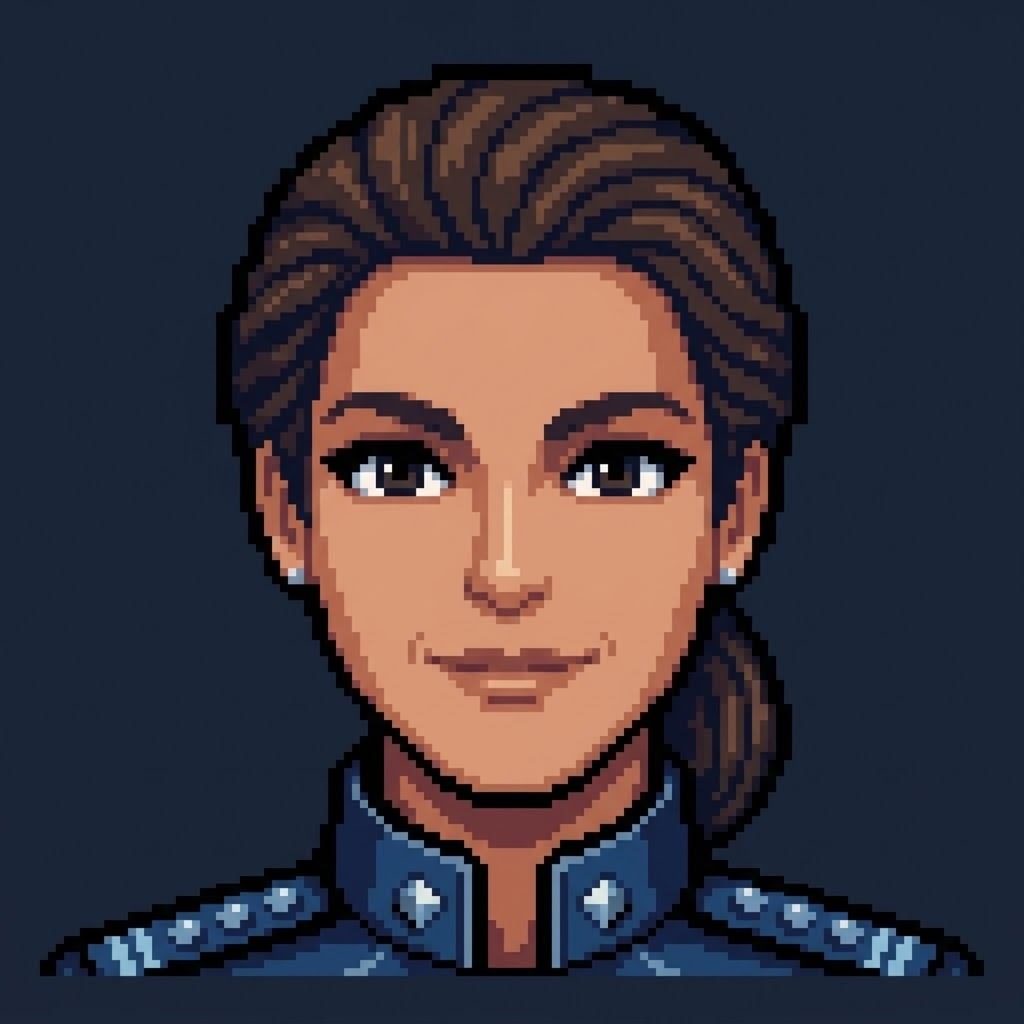
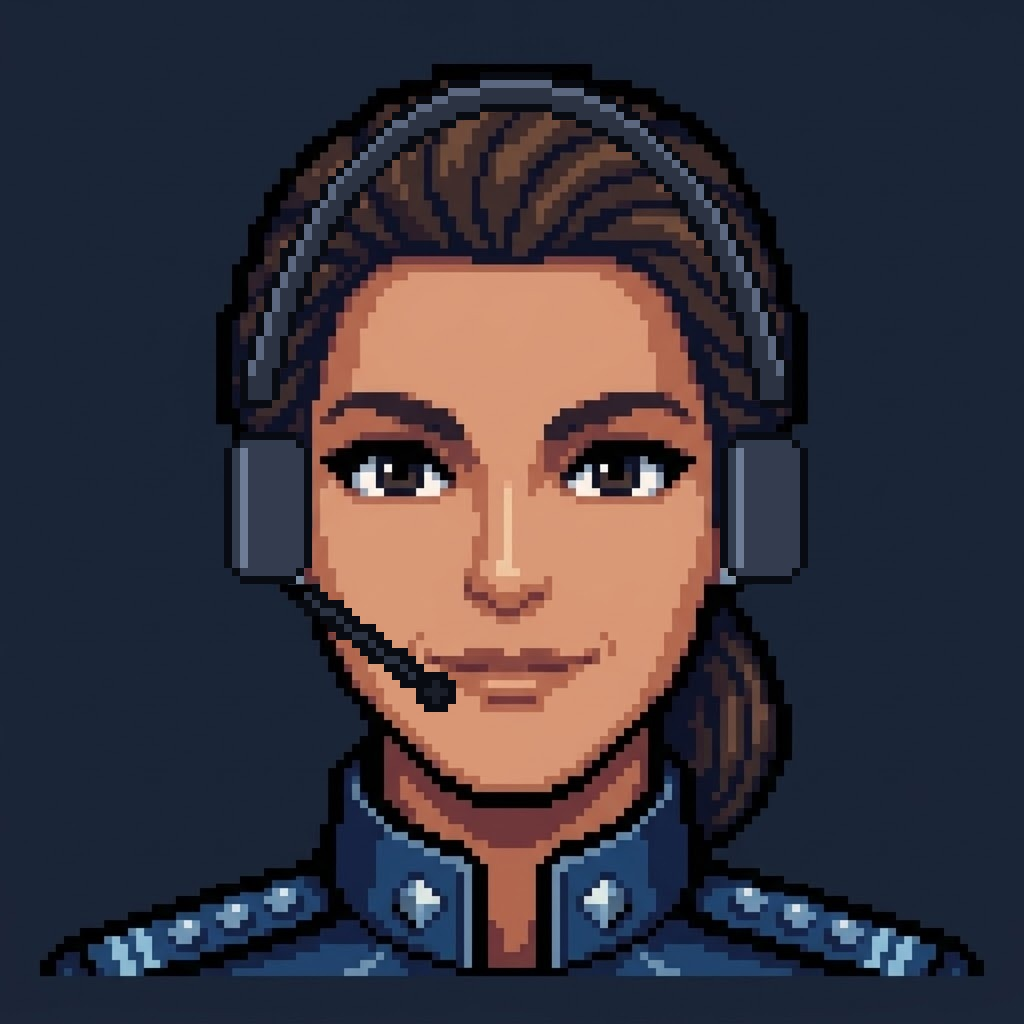
Nicole's headset in her portrait and dialogue picture
Claude-Session: https://claude.ai/code/session_01QsU1qWh9Lm4CoQ2smq7FHb

Changed region(s): [[0.2188, 0.0625, 0.8125, 0.7188]]

diff --git a/tools/nicole_headset.py b/tools/nicole_headset.py
@@ -1,0 +1,48 @@
+#!/usr/bin/env python3
+"""Nicole's headset (owner, 2026-11-27: she wears one on the bridge, so her communicator pictures should too).
+Draws a pixel-art headset (headband, ear cups, mic boom) onto the originals kept in art_src/crew/communications_*_v1.jpg, on each picture's
+own pixel grid, and writes the game's files: communications_original.jpg (face), communications_scene_original.jpg, and the Retro copies.
+   python3 tools/nicole_headset.py"""
+import os, sys
+from PIL import Image, ImageDraw
+ROOT = os.path.dirname(os.path.dirname(os.path.abspath(__file__)))
+sys.path.insert(0, os.path.join(ROOT, 'tools')); from crew_art import snap
+SRC, OUT = os.path.join(ROOT, 'art_src', 'crew'), os.path.join(ROOT, 'tablet', 'retro', 'assets', 'crew')
+INK, BAND, BAND_HI, CUP, CUP_HI, PAD = (8, 11, 17, 255), (44, 52, 68, 255), (92, 104, 128, 255), (52, 61, 80, 255), (110, 124, 150, 255), (26, 30, 40, 255)
+
+def headset(size, cell, band, cups, mic):
+    """Draw on a small canvas (one square per art pixel), then blow it up in hard pixels. band: ellipse box and angle range of the arc;
+    cups: [(cx, cy, w, h)]; mic: (from, to). Coordinates are in the picture's pixels."""
+    W, H = size; w, h = W // cell, H // cell
+    im = Image.new('RGBA', (w, h), (0, 0, 0, 0)); d = ImageDraw.Draw(im)
+    s = lambda v: [round(x / cell) for x in v]
+    (bx0, by0, bx1, by1), a0, a1, th = band
+    box = s((bx0, by0, bx1, by1))
+    d.arc(box, a0, a1, fill=INK, width=th + 2)
+    d.arc([box[0] + 1, box[1] + 1, box[2] - 1, box[3] - 1], a0 + 1, a1 - 1, fill=BAND, width=th)
+    d.arc([box[0] + 1, box[1] + 1, box[2] - 1, box[3] - 1], a0 + 4, a1 - 4, fill=BAND_HI, width=1)
+    if mic:
+        (x0, y0), (x1, y1) = mic; p0, p1 = s((x0, y0)), s((x1, y1))
+        d.line([*p0, *p1], fill=INK, width=3); d.line([*p0, *p1], fill=BAND, width=1)
+        d.ellipse([p1[0] - 2, p1[1] - 2, p1[0] + 2, p1[1] + 2], fill=INK); d.ellipse([p1[0] - 1, p1[1] - 1, p1[0] + 1, p1[1] + 1], fill=PAD)
+    for (cx, cy, cw, ch) in cups:
+        x0, y0, x1, y1 = s((cx - cw / 2, cy - ch / 2, cx + cw / 2, cy + ch / 2))
+        d.rounded_rectangle([x0, y0, x1, y1], radius=max(1, (x1 - x0) // 3), fill=INK)
+        d.rounded_rectangle([x0 + 1, y0 + 1, x1 - 1, y1 - 1], radius=max(1, (x1 - x0) // 3 - 1), fill=CUP)
+        d.line([x0 + 2, y0 + 2, x0 + 2, y1 - 2], fill=CUP_HI)
+    return im.resize((w * cell, h * cell), Image.NEAREST)
+
+def apply(src, dst, cell, band, cups, mic):
+    base = Image.open(os.path.join(SRC, src)).convert('RGBA')
+    ov = headset(base.size, cell, band, cups, mic); base.alpha_composite(ov, (0, 0))
+    out = base.convert('RGB'); out.save(os.path.join(OUT, dst), quality=92); return out
+
+# the face (1024 x 1024, art pixels about 16 px): band over the crown, cups on both ears, the mic from her right cup toward her mouth
+face = apply('communications_face_v1.jpg', 'communications_original.jpg', 8,
+             ((228, 70, 796, 980), 196, 344, 3), [(262, 505, 84, 150), (762, 505, 84, 150)], ((300, 590), (430, 690)))
+snap(face.resize((64, 64), Image.LANCZOS)).save(os.path.join(OUT, 'communications.png'))
+# the dialogue picture (1024 x 765, art pixels about 4 px): three-quarter view, the cup on her near ear (viewer right), the band over her hair
+scene = apply('communications_scene_v1.jpg', 'communications_scene_original.jpg', 4,
+              ((206, 78, 430, 560), 222, 352, 3), [(410, 275, 40, 66)], ((404, 306), (318, 336)))   # the far ear is hidden behind her head: no far cup
+snap(scene.resize((320, 240), Image.LANCZOS)).save(os.path.join(OUT, 'communications_scene.png'))
+print('Nicole has her headset')

diff --git a/docs/HANDOFF.md b/docs/HANDOFF.md
@@ -1,6 +1,6 @@
 # Handoff (read this first when a session starts; update it before parking)
 
-Last updated: 2026-11-27. Branch to work on: `tablet`. Repo: NickWest27/AquaNova (GitHub Pages path `/AquaNova/`). Last change: ARIA's picture rebuilt smooth with no screen-door grid (averaged on its 190x143 art grid, dark texture calmed, enlarged smoothly, sharpened, soft glow; original kept as `art_src/crew/executiveOfficer_scene_v1.png`); held lines that already say Captain get no extra "Captain," in front; nav charts: the coast is a bold dark yellow (land), the 10 and 20 m contours light yellow (shallows, where charted). Before that sonar modes (owner, 2026-11-27). OFF (about 1 nm, contacts lost), PASSIVE (listening, the normal setting), ACTIVE: pings every 20 s; each ping is a ripple drawn on the SNR screen and the nav charts, spreading at 1.5 nm a second; once the first ripple has passed a vessel it is heard twice as far (traffic.js). Everyone hears a ping: poachers inside 24 nm run (`spooked`), other hostiles inside 36 nm come for us (`drawn`); Alex says so when he can see it. Active draws a little more power. The Active button is on the SNR page (centre pad, five buttons); Alex's Sonar orders are Go passive, Go active, Sonar off. The full sweep is now a mapping sweep with the survey sensors: +30 power while it runs, the chart filled in to 12 nm, it no longer helps hearing. Normal mapping is 4 nm whatever the sonar does (sim.fineNm). bubble_nm 20 to 28 (data/world/traffic.json). Tests: sonar_test (active, ripple reach, pings, sweep power and chart, poacher runs, hostile closes), seafloor_test. Before that docking and undocking say one message each (dock.js `sequence(text, sounds, done)`; the clamp and shore power sounds still play at their steps); Alex reports a hostile contact when first heard (as before) and again once it is identified, if it was unidentified at first (traffic.js `identSaid`). dock_sleep_test fixed (reads Marcus's held message). notices_test is out of date (written for the old overhead stack, `.bt-stack`), needs rewriting. Before that bridge overhead panel: battery dropped from the status line; notices queue (one at a time, each held 5 to 12 s by length, repeats dropped, at most 6 waiting; `readMs` in bridge.js). Before that ARIA no longer announces a new mission (no 'New task' and no 'New Mission Started'); she congratulates the Captain 5 s after a mission completes, mentioning the report when one went out in the last 15 s (app.js, mission-notify). She only speaks: the report transfer and OERA's reply mail keep their own timing. Before that no status strip and no line at the foot of the screen (owner, 2026-11-27). The status strip (`.dock`) is hidden everywhere (the bridge's overhead panel carries position, time and battery). A crew line that does not open the dialogue (a reply to a button, an action report) goes to that crew member's communicator log and the pin pulses (`pin-pulse` event); on the bridge it is still a notice on the overhead console; a line from the crew member you are talking to just appears in the dialogue (behind Continue). `toast()` confirmations from PED and logbook buttons (Note saved, Copied, Export failed) still use the foot line. Tests updated: aria_test, unlock_test, dock_sleep_test read the communicator log. Before that who reports the launch bay (owner, 2026-11-27): Lt. Washington (`security`) reports the Tern's launches and recoveries (away, alongside, aboard, readying, taking aboard, the Fetch Remora order and the Tern bringing Remora home) and a parted Remora tether; Dr. Patel (`science`) Remora's launches and recoveries; Alex (`sensors`) everything WSKR (the tether-blocks-the-doors line moved from Chief Doyle). The Tern's mission lines (ashore, low battery, adrift) stay with Marcus; her radio calls with Nicole. Before that sounds limited to their rooms (owner, 2026-11-27; `HEARD_IN` and `play()` in app.js): sonar new/lost contact, depth warning and the teletype only on the bridge; launch bay hatches, flooding, pumping, launches only in the launch bay (the bay loop keeps running silently, so walking in you hear it); the engine room loop only in engineering; the hull (impacts, crash, groans, diving, docking clamps), alarms, the drive, sonar pings, doors and the communicator everywhere. Before that new walkway pictures (owner, 2026-11-27; old ones kept as `art_src/rooms/walkway*_original_v1.jpg`). A1: straight corridor, BRIDGE at the end, Science near left, Medical far left, Quarters near right (signs on the black panels; the far right door unused). AN-1: Launch Bay is the left end door, Engineering the near right door (the right end door, near left door and ladder unused). Pre-existing failures noticed: `science_test`, `bridge_test` (fail the same without this change). Before that docking sounds (owner, 2026-11-27: metallic thuds): `dockBump`, `dockClamps`, `clampRelease`, `shorePower`, played on the steps of the dock sequence (dock.js); room doors open, then shut behind (walkway to walkway has no door). Before that launch bay cycle sounds (owner, 2026-11-27: hatches are quick, equalising takes time): `BAY_PLAN` in app.js plays cues at fractions of the bay op (game time). Launch: inner hatch open, close, flood loop (most of the 60 s), outer hatch open, the craft goes, outer hatch closes. Recovery: outer hatch open, close, pump-out loop, inner hatch open, close. Full volume in the launch bay, 30% elsewhere. New sounds `hatchOpen`, `hatchClose`, loops `bayFlood`, `bayPump`. Impact, crash and distant explosion get soft saturation (`DRIVE` in sfx.js) so they read on iPad speakers. Test `tools/bay_sound_test.py` (uses `window.__sfxLog` in audio.js). Before that sounds (owner, 2026-11-27): the interface sounds (communicator chirp, mail open/close, notice, action tick, data up/down/done/fail) moved from audio.js into sfx.js, so the sound board has them (audio.js plays them through its sliders); general quarters gong removed; crash, hull groan, power up and power down remade; impact and distant explosion heavier; the fan loop is now `hullFlow`, water past the hull, played by audio.js on the Ship slider and louder with speed; `shipHum` and `ventilation` loops on the board. Newly wired in app.js: power down (super cruise off), depth warning (depth cap), sonar new contact / contact lost (events from sonar.js, at most one blip per 4 s), launch bay flooding (launch) and draining (recovery), WSKR launch whoosh, bubbles when the Tern or Remora leaves, bubbles diving and a splash surfacing, hull groans below 400 m every few minutes, teletype for an incoming message; impact/crash only on a real hit (not the map edge or AO warning). Not wired yet: distant explosion, radio beep, button press/error, radio static, reactor hum. Before that Alex's dialogue picture and face (`sensors`); Marcus and Alex: their consoles are matched to the bridge colours, the plain backdrop stays dark and blank for the text (`PLAIN` in `tools/crew_art.py`; a blurred bridge backdrop was tried and dropped by the owner: wrong sense of where they sit). Before that crew scene backgrounds shifted toward their room's colours (bridge, engineering, launch bay; figure kept as drawn; masks `art_src/crew/<id>_mask.png`, `ROOM` and `BG_STRENGTH` in `tools/crew_art.py`). Before that new crew scene pictures (Marcus over the shoulder, replacing the first one, kept as `art_src/crew/helm_scene_v1.png`; Chief Doyle; Lt. Washington), made by `tools/crew_art.py`; text box per picture in `SCENE_BOX` (Marcus right but short of his hand, Washington left, Doyle across the bottom with the choices in two columns). Before that desk pads are banks of five (range buttons gone, the yellow keys do range; SNR contact buttons Scan, Probe, Clear moved to the right pad, Investigate renamed Probe; the Sensors station keeps its own − RANGE +). Open: the left pad still has six pages (TAC is a stub). Before that bridge desk (owner, 2026-11-27): the three desk pads are warped to the slant of their holes; DSP moved from the right pad to the round trackpad (lamp lit while on); the two yellow keys left of the centre display are RANGE + / − with the signs printed on; the overhead panel carries the status (position, date, time, BAT) and the screen-edge strip is hidden on the bridge; before that sound board in the PED (Settings > Sound > Sound board opens it full screen over the game; the buttons live in `tablet/js/soundboardKit.js`, shared with the stand-alone page `tablet/soundboard.html`, published at `.../AquaNova/tablet/tablet/soundboard.html`: note the double `tablet`); before that sound board for the owner (every sound in sfx.js and the theme on a button, rename and Copy names); before that NEW BRIDGE FRAME (the owner's picture of 2026-11-27, 1024x765, holes cut from its painted checkerboard; source `art_src/rooms/bridge_original.png`, colour-matched by `tools/even_palette.py`, Retro copy snapped from it). Marcus at the centre helm (tap him to talk; his left monitor opens the Helm station; his two small monitors show heading/speed and depth/floor), Nicole left, Alex right. The three desk pads are one row each: HLM's depth and cruise buttons moved to the right pad. The status strip moves to the top on the bridge (`body.on-bridge`). Walkway exit: bottom-left corner. Before that: 16-bit sound effects library (`tablet/js/sfx.js`, 32 sounds; previews `docs/audio/sfx/`, reel `docs/audio/sfx_reel.mp3` + `.txt`, rendered by `tools/render_sfx.py`; Effects slider in PED Settings). Wired: general alarm, impact/crash, fire and flooding alarms, super cruise power-up and engage, emergency blow, sonar sweep ping, doors between rooms, the engine room loop, radio squelch when the communicator opens; before that short crew lines show as notices on the bridge's overhead console (two lines, whole panel); ARIA's hints wait at least a minute; bigger overhead and nav log text; the vertical profile uses the nav screen's colours (warning yellow and red kept); before that every crew message opens the dialogue (hints, reports, objective lines); only the reply to a button press (`tell()`) and action ticks stay a short line at the foot of the screen (notify.js); before that main title "Beneath the Waves" (original, 16-bit style, `tablet/js/theme.js`; PED Settings > Play theme; render with `tools/render_theme.py` to `docs/audio/aqua_nova_theme.mp3`); before that the communicator never replaces what the Captain is reading: new lines wait behind "Continue" (crew.js readTo); before that fixed Restart from the beginning (a new game was no longer recognised because 'pick up the communicator' now starts as waiting; `commsLocked` in app.js; test `tools/restart_test.py`); before that no discovery notes in the logbook (arrivals to the PED Journal, records to PED Findings); before that one task at a time (objective status 'waiting' until the step before is done; follow-on missions start after a short saved pause; the PED shows done steps, the current one and how many are to come); super cruise spools up for 8 s and eases in and out, any other power setting drops it; Route editor Edit button and a degrees-and-minutes read-back in the waypoint dialog; the trials escort (OERA Seaward, CGC Vigilant) on AIS; the 300 m depth is a certification step (story bible); before that route planner fix (trips over about 120 nm fell off the search grid and were reported as blocked: `route.js` now grows its cells on long trips; test in `tools/route_test.mjs`); the commissioning orders give the AO's centre point, not its corners; before that walkway A1, walkway AN-1 and medbay back to the colour-matched pictures (a pixel-art rebuild by filter looked smudged; they need redrawing to be as crisp as the launch bay); stray speckles removed from the Retro copies; BRIDGE sign on A1 drawn by the game; before that rooms open with the story and crew join the communicator when their room is visited (`rooms.js`, see `docs/COMMS_AND_PROGRESSION.md`); ARIA's bridge introduction; before that crew renamed (Lt. Andre Washington for security, Chief Engineer Ryan Doyle; see `docs/STORY_BIBLE.md`); the Captain's lines in the communicator are conversational (`SAY` in `stations/crew.js`); Call another station; Take me to my quarters removed; before that communicator menu tidied and First Contact completes on ARIA's introduction (see `docs/HELM_AND_ORDERS.md`); before that portraits and dialogue screens for Marcus, ARIA and Dr. Patel (`tools/crew_art.py`, sources in `art_src/crew/`; text box side per picture: `SCENE_BOX` in art.js); before that room pictures evened out to the Engineering picture's brightness and colour (`tools/even_palette.py`; the untouched originals are in `art_src/rooms/`, outside the served folders: a new room picture goes there first, then run the script, which also remakes the Retro copies); bigger crew tap areas on the bridge; before that the owner's testing list (below, all 18 items); before that the quarters wall screen cycles NAV, synthetic vision, sonar, WSKRs and ship status (`quartersScreen.js`, tap = next page, 10 s each; test `tools/quarters_screen_test.py`); pushing the trials for records with a risk of light damage (`trials.js`); story bible brought up to date; before that Sea Trials became the commissioning trip to the Trials AO (welcome letter in the logbook, commissioning orders by mail, Welcome to the AO mail; nav, eng and super cruise commissioned in steps; see the tutorial table in `docs/COMMS_AND_PROGRESSION.md`); before that the owner's welcome letter in the logbook; before that general alarm (ARIA order + engineering button; red lighting and frames; faster fire/flood response if sounded first; see `docs/ENGINEERING.md`); before that the Engineering room shows the ship's state (core glow amber/red, live console screens, red alarm for fire/flooding; see `docs/ENGINEERING.md`); before that the engineering computer; before that the 90s dialogue screen for Nicole; before that Nicole's portrait; before that walkway AN-1 and Engineering on the owner's pictures (every room is now 4:3); before that site survey (`survey.js`, Survey site on SONAR, Seabed survey missions) and the XO tends Remora before getting under way; before that Remora's tether parts past its length, the Tern fetches her (`tools/tether_test.py`); before that PED, communicator and corner buttons in the 4:3 box; before that Launch Bay as instruments, WSKRs have their own launch bays, standard target readout (`readout.js`), Full sweep 36 s; before that station pages are a 4:3 page (1024 x 768) scaled like the stage; before that pages fit the screen (`tools/fit_test.py`) and Sensors has SONAR and WSKRs only; before that contact tracking (detection chance, names belong to tracks, probable matches, signatures on file: `docs/CONTACT_TRACKING.md`); before that identified ships saved; before that one zoom direction everywhere ("+" zooms in) and round map zoom buttons; before that the bridge original picture with real transparent holes; before that the medbay on the owner's picture (after bridge, walkway A1, quarters, science lab, launch bay).
+Last updated: 2026-11-27. Branch to work on: `tablet`. Repo: NickWest27/AquaNova (GitHub Pages path `/AquaNova/`). Last change: Nicole wears her headset in her communicator pictures too (`tools/nicole_headset.py` draws it on the originals kept as `art_src/crew/communications_*_v1.jpg`). Before that ARIA's picture rebuilt smooth with no screen-door grid (averaged on its 190x143 art grid, dark texture calmed, enlarged smoothly, sharpened, soft glow; original kept as `art_src/crew/executiveOfficer_scene_v1.png`); held lines that already say Captain get no extra "Captain," in front; nav charts: the coast is a bold dark yellow (land), the 10 and 20 m contours light yellow (shallows, where charted). Before that sonar modes (owner, 2026-11-27). OFF (about 1 nm, contacts lost), PASSIVE (listening, the normal setting), ACTIVE: pings every 20 s; each ping is a ripple drawn on the SNR screen and the nav charts, spreading at 1.5 nm a second; once the first ripple has passed a vessel it is heard twice as far (traffic.js). Everyone hears a ping: poachers inside 24 nm run (`spooked`), other hostiles inside 36 nm come for us (`drawn`); Alex says so when he can see it. Active draws a little more power. The Active button is on the SNR page (centre pad, five buttons); Alex's Sonar orders are Go passive, Go active, Sonar off. The full sweep is now a mapping sweep with the survey sensors: +30 power while it runs, the chart filled in to 12 nm, it no longer helps hearing. Normal mapping is 4 nm whatever the sonar does (sim.fineNm). bubble_nm 20 to 28 (data/world/traffic.json). Tests: sonar_test (active, ripple reach, pings, sweep power and chart, poacher runs, hostile closes), seafloor_test. Before that docking and undocking say one message each (dock.js `sequence(text, sounds, done)`; the clamp and shore power sounds still play at their steps); Alex reports a hostile contact when first heard (as before) and again once it is identified, if it was unidentified at first (traffic.js `identSaid`). dock_sleep_test fixed (reads Marcus's held message). notices_test is out of date (written for the old overhead stack, `.bt-stack`), needs rewriting. Before that bridge overhead panel: battery dropped from the status line; notices queue (one at a time, each held 5 to 12 s by length, repeats dropped, at most 6 waiting; `readMs` in bridge.js). Before that ARIA no longer announces a new mission (no 'New task' and no 'New Mission Started'); she congratulates the Captain 5 s after a mission completes, mentioning the report when one went out in the last 15 s (app.js, mission-notify). She only speaks: the report transfer and OERA's reply mail keep their own timing. Before that no status strip and no line at the foot of the screen (owner, 2026-11-27). The status strip (`.dock`) is hidden everywhere (the bridge's overhead panel carries position, time and battery). A crew line that does not open the dialogue (a reply to a button, an action report) goes to that crew member's communicator log and the pin pulses (`pin-pulse` event); on the bridge it is still a notice on the overhead console; a line from the crew member you are talking to just appears in the dialogue (behind Continue). `toast()` confirmations from PED and logbook buttons (Note saved, Copied, Export failed) still use the foot line. Tests updated: aria_test, unlock_test, dock_sleep_test read the communicator log. Before that who reports the launch bay (owner, 2026-11-27): Lt. Washington (`security`) reports the Tern's launches and recoveries (away, alongside, aboard, readying, taking aboard, the Fetch Remora order and the Tern bringing Remora home) and a parted Remora tether; Dr. Patel (`science`) Remora's launches and recoveries; Alex (`sensors`) everything WSKR (the tether-blocks-the-doors line moved from Chief Doyle). The Tern's mission lines (ashore, low battery, adrift) stay with Marcus; her radio calls with Nicole. Before that sounds limited to their rooms (owner, 2026-11-27; `HEARD_IN` and `play()` in app.js): sonar new/lost contact, depth warning and the teletype only on the bridge; launch bay hatches, flooding, pumping, launches only in the launch bay (the bay loop keeps running silently, so walking in you hear it); the engine room loop only in engineering; the hull (impacts, crash, groans, diving, docking clamps), alarms, the drive, sonar pings, doors and the communicator everywhere. Before that new walkway pictures (owner, 2026-11-27; old ones kept as `art_src/rooms/walkway*_original_v1.jpg`). A1: straight corridor, BRIDGE at the end, Science near left, Medical far left, Quarters near right (signs on the black panels; the far right door unused). AN-1: Launch Bay is the left end door, Engineering the near right door (the right end door, near left door and ladder unused). Pre-existing failures noticed: `science_test`, `bridge_test` (fail the same without this change). Before that docking sounds (owner, 2026-11-27: metallic thuds): `dockBump`, `dockClamps`, `clampRelease`, `shorePower`, played on the steps of the dock sequence (dock.js); room doors open, then shut behind (walkway to walkway has no door). Before that launch bay cycle sounds (owner, 2026-11-27: hatches are quick, equalising takes time): `BAY_PLAN` in app.js plays cues at fractions of the bay op (game time). Launch: inner hatch open, close, flood loop (most of the 60 s), outer hatch open, the craft goes, outer hatch closes. Recovery: outer hatch open, close, pump-out loop, inner hatch open, close. Full volume in the launch bay, 30% elsewhere. New sounds `hatchOpen`, `hatchClose`, loops `bayFlood`, `bayPump`. Impact, crash and distant explosion get soft saturation (`DRIVE` in sfx.js) so they read on iPad speakers. Test `tools/bay_sound_test.py` (uses `window.__sfxLog` in audio.js). Before that sounds (owner, 2026-11-27): the interface sounds (communicator chirp, mail open/close, notice, action tick, data up/down/done/fail) moved from audio.js into sfx.js, so the sound board has them (audio.js plays them through its sliders); general quarters gong removed; crash, hull groan, power up and power down remade; impact and distant explosion heavier; the fan loop is now `hullFlow`, water past the hull, played by audio.js on the Ship slider and louder with speed; `shipHum` and `ventilation` loops on the board. Newly wired in app.js: power down (super cruise off), depth warning (depth cap), sonar new contact / contact lost (events from sonar.js, at most one blip per 4 s), launch bay flooding (launch) and draining (recovery), WSKR launch whoosh, bubbles when the Tern or Remora leaves, bubbles diving and a splash surfacing, hull groans below 400 m every few minutes, teletype for an incoming message; impact/crash only on a real hit (not the map edge or AO warning). Not wired yet: distant explosion, radio beep, button press/error, radio static, reactor hum. Before that Alex's dialogue picture and face (`sensors`); Marcus and Alex: their consoles are matched to the bridge colours, the plain backdrop stays dark and blank for the text (`PLAIN` in `tools/crew_art.py`; a blurred bridge backdrop was tried and dropped by the owner: wrong sense of where they sit). Before that crew scene backgrounds shifted toward their room's colours (bridge, engineering, launch bay; figure kept as drawn; masks `art_src/crew/<id>_mask.png`, `ROOM` and `BG_STRENGTH` in `tools/crew_art.py`). Before that new crew scene pictures (Marcus over the shoulder, replacing the first one, kept as `art_src/crew/helm_scene_v1.png`; Chief Doyle; Lt. Washington), made by `tools/crew_art.py`; text box per picture in `SCENE_BOX` (Marcus right but short of his hand, Washington left, Doyle across the bottom with the choices in two columns). Before that desk pads are banks of five (range buttons gone, the yellow keys do range; SNR contact buttons Scan, Probe, Clear moved to the right pad, Investigate renamed Probe; the Sensors station keeps its own − RANGE +). Open: the left pad still has six pages (TAC is a stub). Before that bridge desk (owner, 2026-11-27): the three desk pads are warped to the slant of their holes; DSP moved from the right pad to the round trackpad (lamp lit while on); the two yellow keys left of the centre display are RANGE + / − with the signs printed on; the overhead panel carries the status (position, date, time, BAT) and the screen-edge strip is hidden on the bridge; before that sound board in the PED (Settings > Sound > Sound board opens it full screen over the game; the buttons live in `tablet/js/soundboardKit.js`, shared with the stand-alone page `tablet/soundboard.html`, published at `.../AquaNova/tablet/tablet/soundboard.html`: note the double `tablet`); before that sound board for the owner (every sound in sfx.js and the theme on a button, rename and Copy names); before that NEW BRIDGE FRAME (the owner's picture of 2026-11-27, 1024x765, holes cut from its painted checkerboard; source `art_src/rooms/bridge_original.png`, colour-matched by `tools/even_palette.py`, Retro copy snapped from it). Marcus at the centre helm (tap him to talk; his left monitor opens the Helm station; his two small monitors show heading/speed and depth/floor), Nicole left, Alex right. The three desk pads are one row each: HLM's depth and cruise buttons moved to the right pad. The status strip moves to the top on the bridge (`body.on-bridge`). Walkway exit: bottom-left corner. Before that: 16-bit sound effects library (`tablet/js/sfx.js`, 32 sounds; previews `docs/audio/sfx/`, reel `docs/audio/sfx_reel.mp3` + `.txt`, rendered by `tools/render_sfx.py`; Effects slider in PED Settings). Wired: general alarm, impact/crash, fire and flooding alarms, super cruise power-up and engage, emergency blow, sonar sweep ping, doors between rooms, the engine room loop, radio squelch when the communicator opens; before that short crew lines show as notices on the bridge's overhead console (two lines, whole panel); ARIA's hints wait at least a minute; bigger overhead and nav log text; the vertical profile uses the nav screen's colours (warning yellow and red kept); before that every crew message opens the dialogue (hints, reports, objective lines); only the reply to a button press (`tell()`) and action ticks stay a short line at the foot of the screen (notify.js); before that main title "Beneath the Waves" (original, 16-bit style, `tablet/js/theme.js`; PED Settings > Play theme; render with `tools/render_theme.py` to `docs/audio/aqua_nova_theme.mp3`); before that the communicator never replaces what the Captain is reading: new lines wait behind "Continue" (crew.js readTo); before that fixed Restart from the beginning (a new game was no longer recognised because 'pick up the communicator' now starts as waiting; `commsLocked` in app.js; test `tools/restart_test.py`); before that no discovery notes in the logbook (arrivals to the PED Journal, records to PED Findings); before that one task at a time (objective status 'waiting' until the step before is done; follow-on missions start after a short saved pause; the PED shows done steps, the current one and how many are to come); super cruise spools up for 8 s and eases in and out, any other power setting drops it; Route editor Edit button and a degrees-and-minutes read-back in the waypoint dialog; the trials escort (OERA Seaward, CGC Vigilant) on AIS; the 300 m depth is a certification step (story bible); before that route planner fix (trips over about 120 nm fell off the search grid and were reported as blocked: `route.js` now grows its cells on long trips; test in `tools/route_test.mjs`); the commissioning orders give the AO's centre point, not its corners; before that walkway A1, walkway AN-1 and medbay back to the colour-matched pictures (a pixel-art rebuild by filter looked smudged; they need redrawing to be as crisp as the launch bay); stray speckles removed from the Retro copies; BRIDGE sign on A1 drawn by the game; before that rooms open with the story and crew join the communicator when their room is visited (`rooms.js`, see `docs/COMMS_AND_PROGRESSION.md`); ARIA's bridge introduction; before that crew renamed (Lt. Andre Washington for security, Chief Engineer Ryan Doyle; see `docs/STORY_BIBLE.md`); the Captain's lines in the communicator are conversational (`SAY` in `stations/crew.js`); Call another station; Take me to my quarters removed; before that communicator menu tidied and First Contact completes on ARIA's introduction (see `docs/HELM_AND_ORDERS.md`); before that portraits and dialogue screens for Marcus, ARIA and Dr. Patel (`tools/crew_art.py`, sources in `art_src/crew/`; text box side per picture: `SCENE_BOX` in art.js); before that room pictures evened out to the Engineering picture's brightness and colour (`tools/even_palette.py`; the untouched originals are in `art_src/rooms/`, outside the served folders: a new room picture goes there first, then run the script, which also remakes the Retro copies); bigger crew tap areas on the bridge; before that the owner's testing list (below, all 18 items); before that the quarters wall screen cycles NAV, synthetic vision, sonar, WSKRs and ship status (`quartersScreen.js`, tap = next page, 10 s each; test `tools/quarters_screen_test.py`); pushing the trials for records with a risk of light damage (`trials.js`); story bible brought up to date; before that Sea Trials became the commissioning trip to the Trials AO (welcome letter in the logbook, commissioning orders by mail, Welcome to the AO mail; nav, eng and super cruise commissioned in steps; see the tutorial table in `docs/COMMS_AND_PROGRESSION.md`); before that the owner's welcome letter in the logbook; before that general alarm (ARIA order + engineering button; red lighting and frames; faster fire/flood response if sounded first; see `docs/ENGINEERING.md`); before that the Engineering room shows the ship's state (core glow amber/red, live console screens, red alarm for fire/flooding; see `docs/ENGINEERING.md`); before that the engineering computer; before that the 90s dialogue screen for Nicole; before that Nicole's portrait; before that walkway AN-1 and Engineering on the owner's pictures (every room is now 4:3); before that site survey (`survey.js`, Survey site on SONAR, Seabed survey missions) and the XO tends Remora before getting under way; before that Remora's tether parts past its length, the Tern fetches her (`tools/tether_test.py`); before that PED, communicator and corner buttons in the 4:3 box; before that Launch Bay as instruments, WSKRs have their own launch bays, standard target readout (`readout.js`), Full sweep 36 s; before that station pages are a 4:3 page (1024 x 768) scaled like the stage; before that pages fit the screen (`tools/fit_test.py`) and Sensors has SONAR and WSKRs only; before that contact tracking (detection chance, names belong to tracks, probable matches, signatures on file: `docs/CONTACT_TRACKING.md`); before that identified ships saved; before that one zoom direction everywhere ("+" zooms in) and round map zoom buttons; before that the bridge original picture with real transparent holes; before that the medbay on the owner's picture (after bridge, walkway A1, quarters, science lab, launch bay).
 
 ## Owner's testing list (2026-11-26): all done 2026-11-27, waiting for the owner to test on the iPad
 Rooms and signs

diff --git a/docs/STORY_BIBLE.md b/docs/STORY_BIBLE.md
@@ -47,7 +47,7 @@ The Aqua Nova is advanced enough that the nations behind O.E.R.A. will not let h
   - ARIA: no body. A glowing blue holographic brain of linked nodes over a projector ring.
   - Marcus Chen (picture of 2026-11-27): mid-thirties, short dark-brown hair, warm brown skin, a dry half-smile and one raised eyebrow; over the shoulder at the helm, hand on the yoke, an old dive watch; navy uniform with the ship's patch.
   - Dr. Samira Patel: long dark curly hair tied back, white lab coat over the navy uniform; in the lab with a tablet and a sample tube.
-  - Nicole Brooks: at the comms station (a stand-in picture; the owner wants an over-the-shoulder pose like Marcus).
+  - Nicole Brooks: brown hair in a low ponytail, a headset with a mic boom (as on the bridge); at the comms station (a stand-in picture; the owner wants an over-the-shoulder pose like Marcus).
   - Ryan Doyle (picture of 2026-11-27): early fifties, red-brown hair going grey, freckled ruddy face, a pencil behind his ear, coveralls with the sleeves rolled, a red rag in his back pocket, a Saint Christopher medal; one hand on the reactor casing; behind him a wrench taped to the bulkhead, "DO NOT TOUCH. LUCKY."
   - Andre Washington (picture of 2026-11-27): about forty, very tall and broad, close-cropped greying hair, short beard; arms folded, the Corps emblem on the right forearm, a column of names and the daughter's anchor-whale on the left; in the launch bay with the Tern behind him.
   - Alex Torres (picture of 2026-11-27): about thirty, dark wavy hair, olive skin, dark steady eyes, headphones on; over the shoulder at the sensors console, a calm half-smile.
